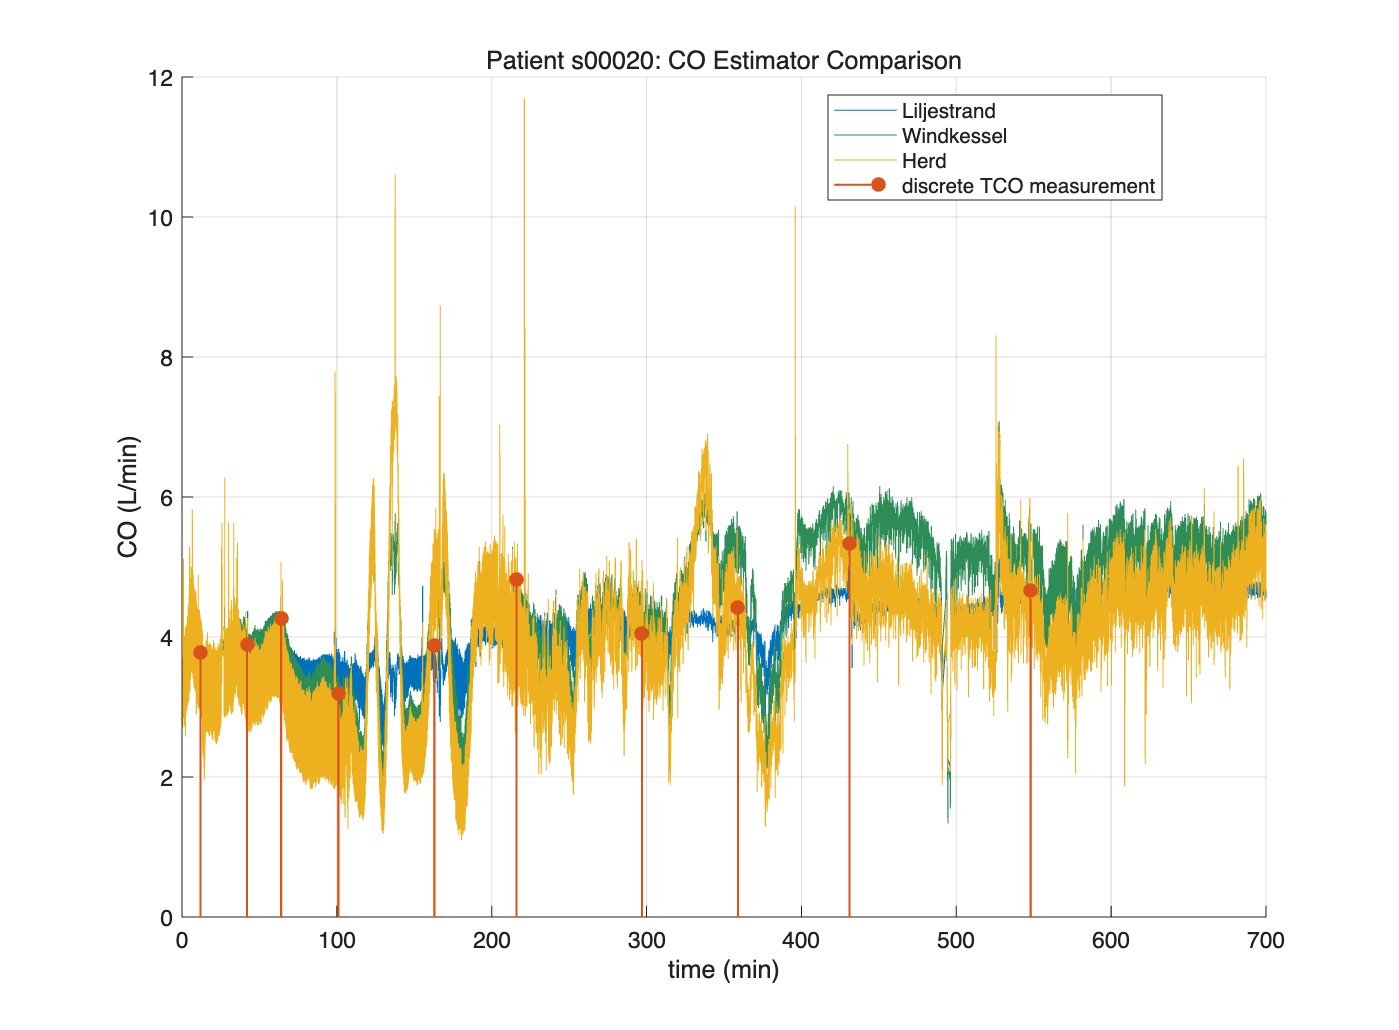
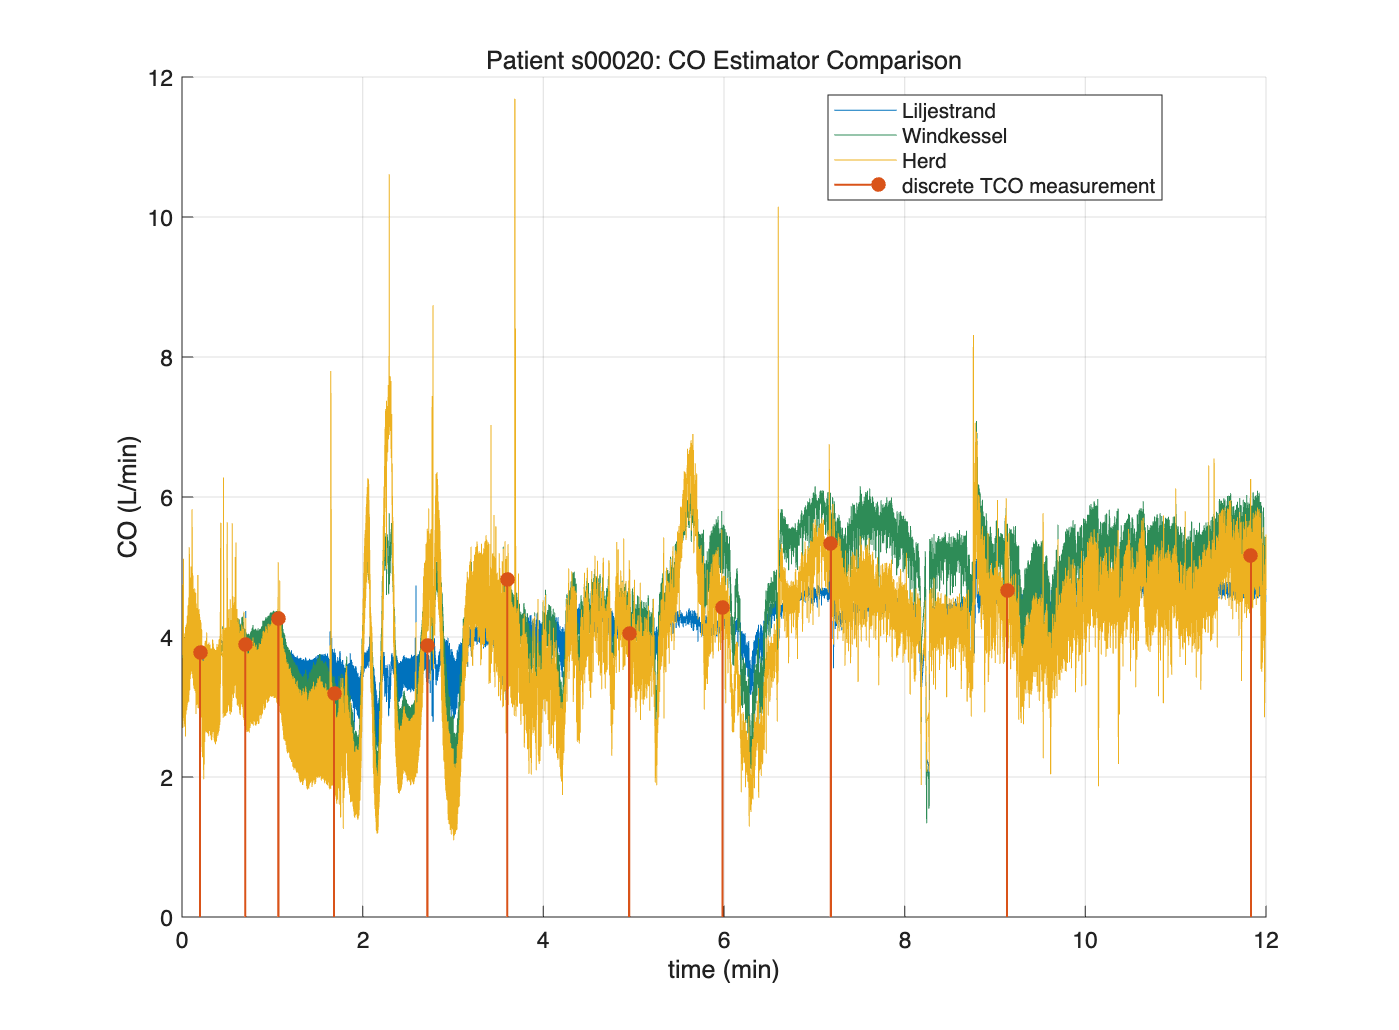
update timescale

diff --git a/Group19_COProject_Q4.m b/Group19_COProject_Q4.m
@@ -111,19 +111,19 @@ for p = 1:3
 
 
         % Plot CO estimate
-        plot(t_CO,CO_cal,'Color',Colors(a,:), 'LineWidth',0.5);
+        plot(t_CO/60,CO_cal,'Color',Colors(a,:), 'LineWidth',0.5);
 
     end
 
     % Plot discrete TCO measurements
-    stem(time_TCO_valid,TCO_valid,'filled', 'Color',[0.8500 0.3250 0.0980], 'LineWidth',1.0);
+    stem(time_TCO_valid/60,TCO_valid,'filled', 'Color',[0.8500 0.3250 0.0980], 'LineWidth',1.0);
 
     xlabel('time (min)');
     ylabel('CO (L/min)');
     title(['Patient ',Patients{p},': CO Estimator Comparison']);
 
-    xlim([0 700]);
-    xticks(0:100:700);
+    xlim([0 12]);
+    xticks(0:2:12);
 
     legend('Liljestrand','Windkessel','Herd', 'discrete TCO measurement','Location','best');
 
